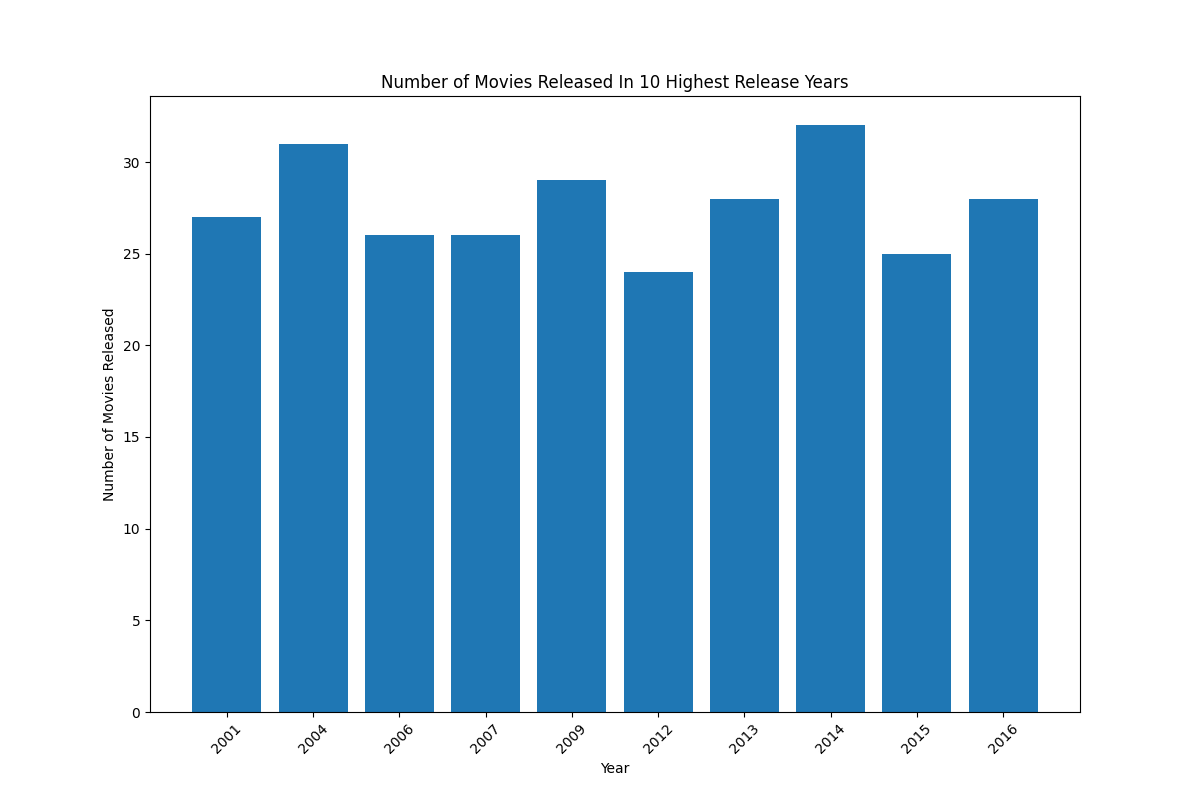
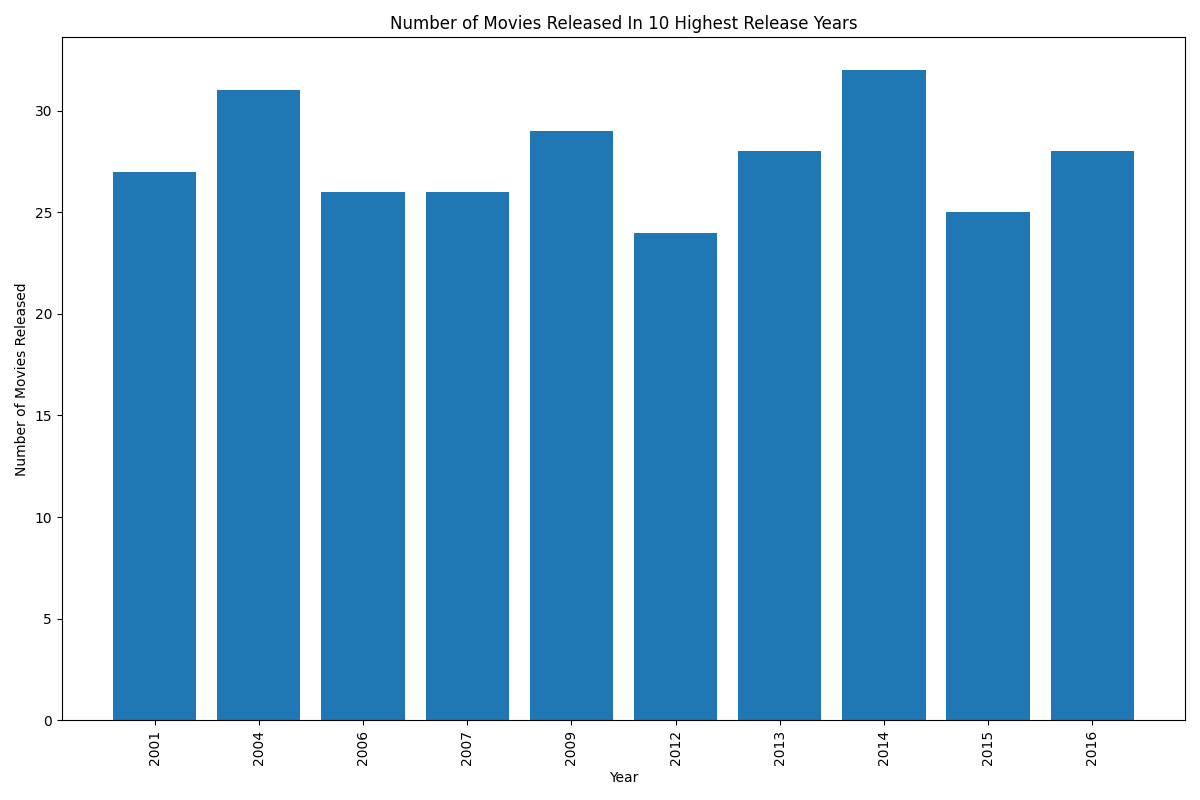
Add Top10 Grossing movies

diff --git a/IMDB MOVIES/top_10_grossing.py b/IMDB MOVIES/top_10_grossing.py
@@ -1,0 +1,31 @@
+import pandas as pd
+import matplotlib.pyplot as plt
+import textwrap
+
+imdb_movies = pd.read_csv(r"imdb_top_1000.csv")
+print(imdb_movies)
+
+# Clean data to convert string type Gross column to float for analysis and remove any commas in between
+
+imdb_movies.Gross = imdb_movies.Gross.str.replace(',','').astype(float)
+# Find Top 10 Highest Grossing Films
+top10_highest_grossing = imdb_movies.sort_values(by="Gross", ascending=False).head(10)
+top10_highest_grossing = top10_highest_grossing[["Series_Title", "Released_Year", "Gross"]]
+print("Top 10 Highest Grossing Movies are...\n\n")
+print(top10_highest_grossing)
+
+# Wrap movie names for better display
+wrapped_movie_names = [textwrap.fill(name, width=15) for name in top10_highest_grossing['Series_Title']]
+
+# Show Statistics as a Plot
+plt.figure(figsize=(12, 8))  # Set the figure size
+plt.bar(wrapped_movie_names, top10_highest_grossing['Gross'], color='green')
+
+# Set limits on Y-axis to show differences better
+plt.ylim(round(top10_highest_grossing['Gross'].min()-100000000), round(top10_highest_grossing['Gross'].max()+100000000))
+plt.xlabel('Movie Name')
+plt.ylabel('Gross(Billion $)')
+plt.title('Top 10 Highest Grossing Movies')
+plt.tight_layout()
+plt.savefig("Plots/Top10_Highest_Grossing_Movies.png")
+plt.show()

diff --git a/IMDB MOVIES/movies_by_year.py b/IMDB MOVIES/movies_by_year.py
@@ -22,18 +22,21 @@ else :
 movie_counts_by_year = imdb_movies.groupby('Released_Year').size().reset_index(name='Movie_Count')
 sort_highest_count_years = movie_counts_by_year.sort_values(by="Movie_Count", ascending=False)
 filter_top10_years = sort_highest_count_years.head(10)
-filter_top10_years = filter_top10_years.sort_values(by="Released_Year", ascending=True)
+print("Movie Count by Year...\n\n")
 print(movie_counts_by_year)
-print(sort_highest_count_years)
+# print(sort_highest_count_years)
+print("Highest number of Movies Released in Years...\n\n")
 print(filter_top10_years)
 
+filter_top10_years = filter_top10_years.sort_values(by="Released_Year", ascending=True)
 # Show Statistics of top 10 years as a Plot
 plt.figure(figsize=(12, 8))  # Set the figure size
 plt.bar(filter_top10_years['Released_Year'], filter_top10_years['Movie_Count'])
 plt.xlabel('Year')
 plt.ylabel('Number of Movies Released')
 plt.title('Number of Movies Released In 10 Highest Release Years')
-plt.xticks(rotation=45)  # Rotate x-axis labels for better readability
+plt.xticks(rotation=90)  # Rotate x-axis labels for better readability
+plt.tight_layout()
 plt.savefig("Plots/Movies_in_Highest_ReleaseYears.png")
 plt.show()
 
